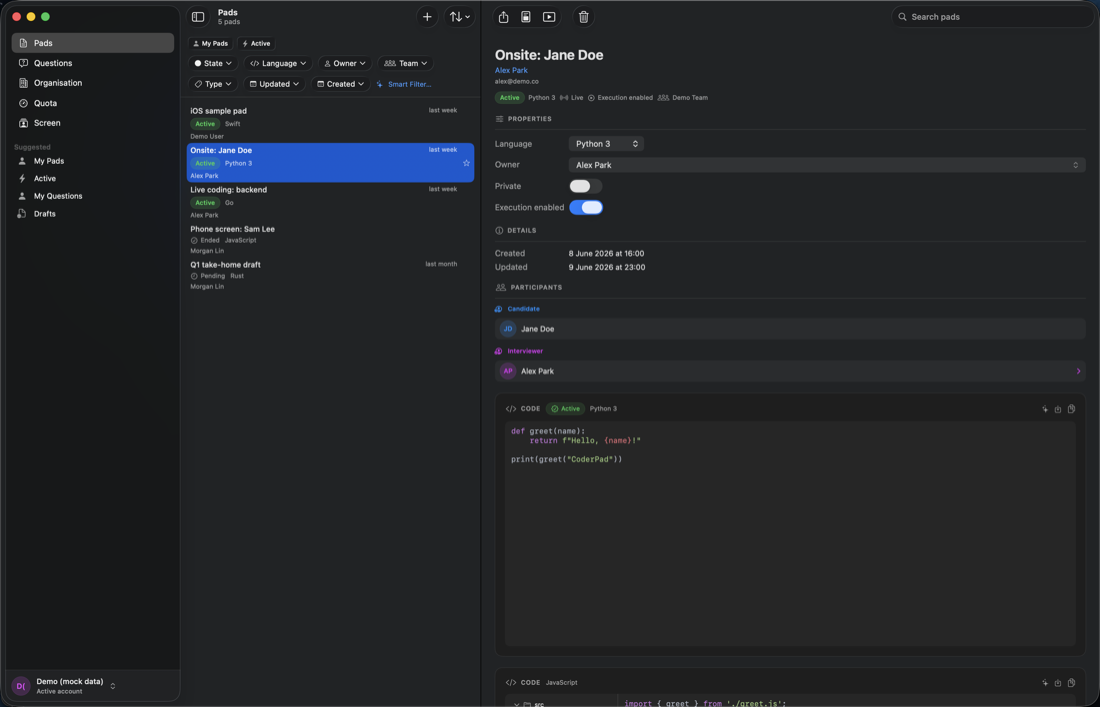
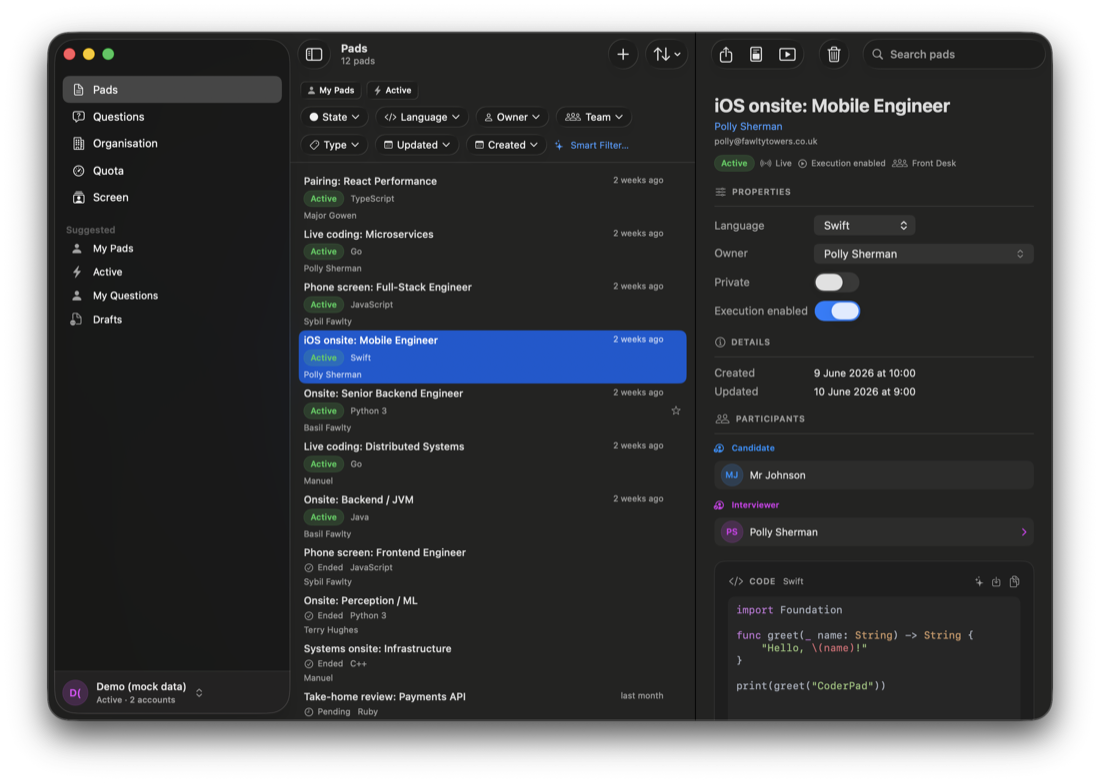
Website: light/dark hero screenshot per system appearance
Replace the single hero shot with mode-matched screenshots of the Pads
view (Fawlty Towers demo data): a <picture> serves the light shot under
prefers-color-scheme: light and the dark shot otherwise, so the image's
window background blends with the page in each mode. Updated the hero
dimensions to the new 1100x783 aspect. Addresses the light-screenshot
half of #541.

diff --git a/docs/index.html b/docs/index.html
@@ -71,12 +71,20 @@
       </p>
     </div>
     <figure class="hero-shot reveal" data-delay="3">
-      <img src="assets/screenshot-pads@2x.png"
-           srcset="assets/screenshot-pads.png 1100w, assets/screenshot-pads@2x.png 2200w"
-           sizes="(min-width: 1106px) 1040px, 94vw"
-           width="1100" height="707" loading="eager" decoding="async"
-           alt="The PadBuddy window: a sidebar of sections, a filterable list of interview
-                pads, and a detail pane with participants and syntax-highlighted code." />
+      <!-- Light/dark hero: serve the screenshot that matches the visitor's
+           system appearance; the image's own window background then blends with
+           the page background per mode. The <img> (dark) is the default. -->
+      <picture>
+        <source media="(prefers-color-scheme: light)"
+                srcset="assets/screenshot-pads-light.png 1100w, assets/screenshot-pads-light@2x.png 2200w"
+                sizes="(min-width: 1106px) 1040px, 94vw" />
+        <img src="assets/screenshot-pads@2x.png"
+             srcset="assets/screenshot-pads.png 1100w, assets/screenshot-pads@2x.png 2200w"
+             sizes="(min-width: 1106px) 1040px, 94vw"
+             width="1100" height="783" loading="eager" decoding="async"
+             alt="The PadBuddy window: a sidebar of sections, a filterable list of interview
+                  pads, and a detail pane with participants and syntax-highlighted code." />
+      </picture>
     </figure>
   </header>
 
